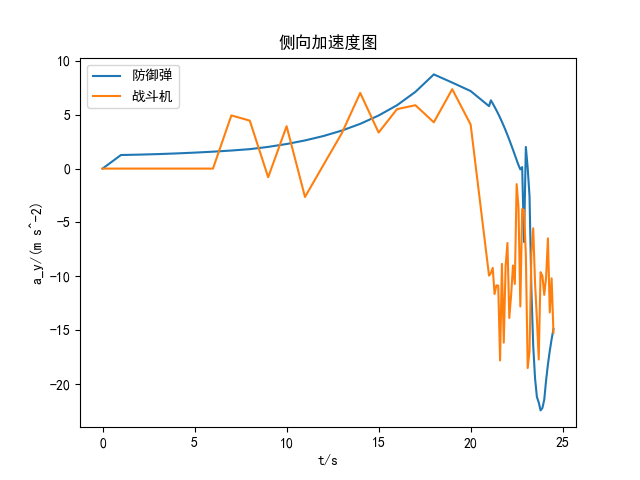
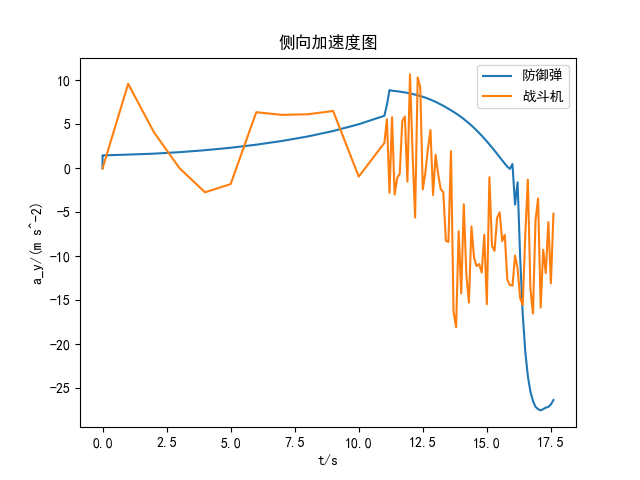
1

diff --git a/MyEnvs.py b/MyEnvs.py
@@ -8,7 +8,7 @@ import copy
 R_DAM = 20
 R_FD = 18000
 R_FT = 30000
-R_CHANGE = 5000
+R_CHANGE = 10000
 ETA_FT = 10 * np.pi / 180
 DT = 1
 K_PLUS = 100
@@ -330,7 +330,7 @@ class FighterEnv(gym.Env):
         self.plotdata["eta"].append(self.eta_ft)
 
         self.t_array.append(self.t)
-        self.t += self.dt
+        
 
 
 
@@ -407,6 +407,7 @@ class FighterEnv(gym.Env):
         truncated = False
 
         if self.Isprint:
+            self.t += self.dt
             self.update_plotdata()
 
         
@@ -484,10 +485,11 @@ class FighterEnv_2(FighterEnv):
             self.FD.simulate(self.dt)
             self.FT.simulate(self.dt) 
             
+            
 
 
             if self.Isprint:
-            
+                self.t += self.dt
                 # 加入观察数据
                 self.calculate_eta()
                 self.update_plotdata()
